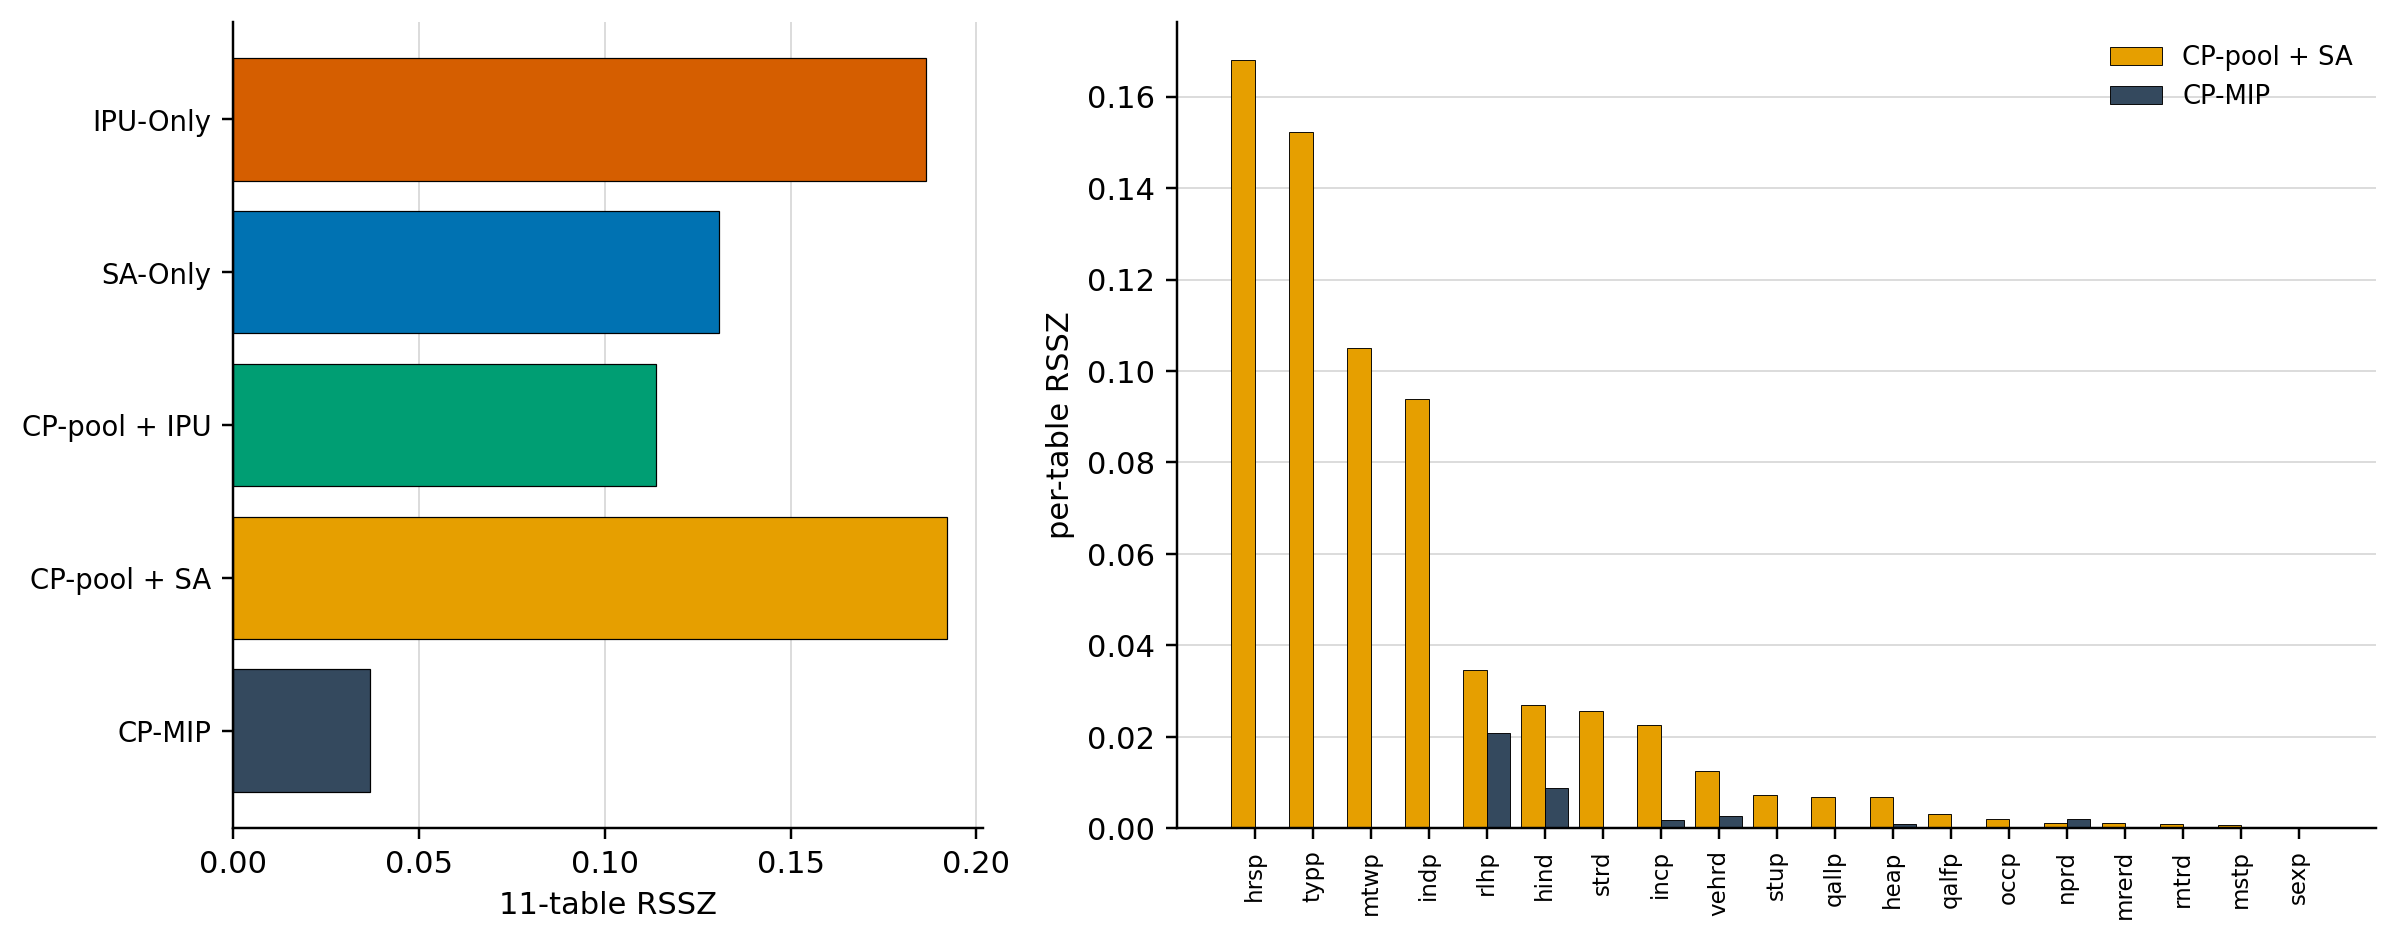
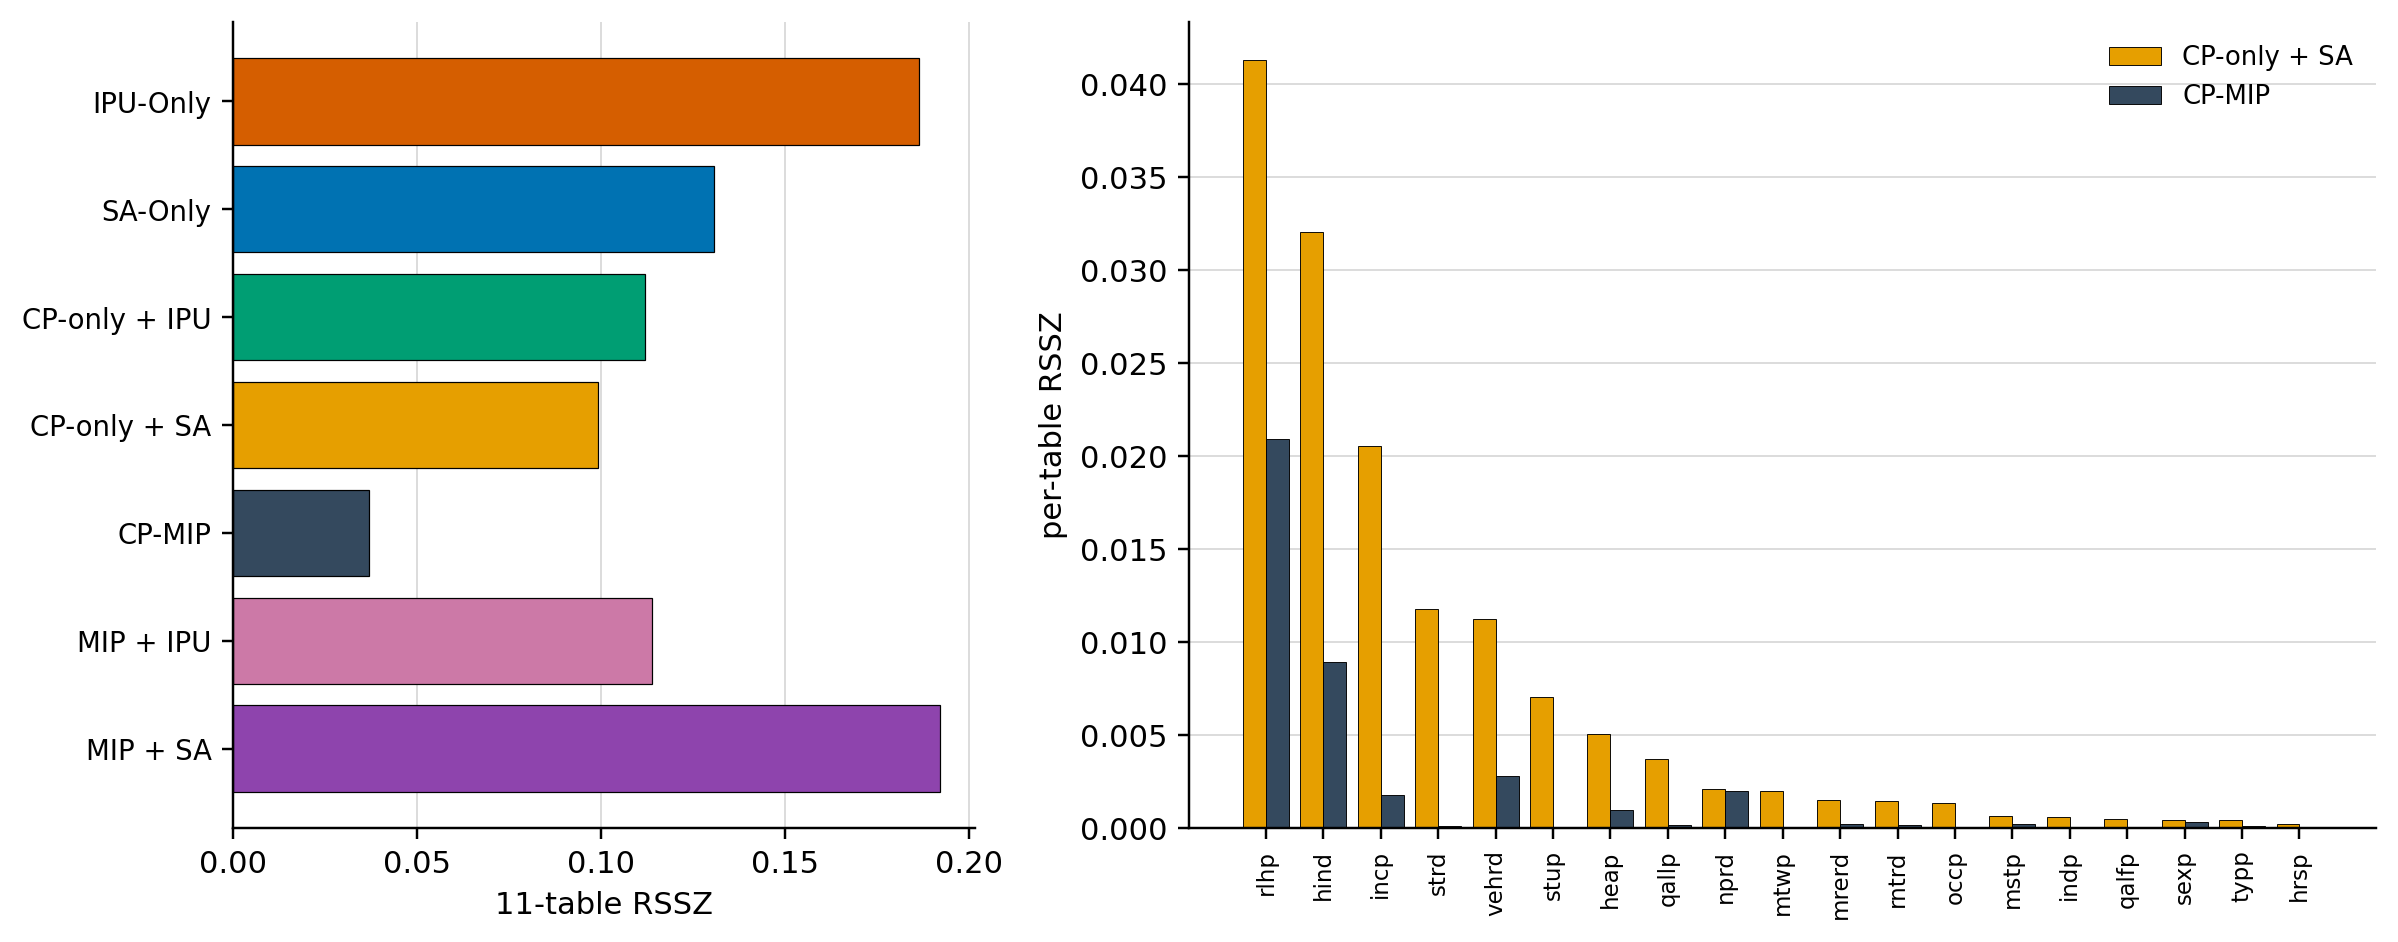
Correct the worked-example arms and make the held-out tails visible
Figure 6 labelled the MIP-expanded SA/IPU arms as CP-pool arms; it now shows CP-only+SA/IPU and MIP+SA/IPU separately, and panel (b) compares CP-only+SA with CP-MIP on the same pool. Figure 4 moves the shared legend below the panels and adds markers and line styles. Table 19 reports mean with median because zone 302031036, a non-private-dwelling SA2, dominates several means, including SA-Only's.

diff --git a/main_edit3.tex b/main_edit3.tex
@@ -614,10 +614,10 @@ pool-to-pool conclusions above are not an artefact of zone mix.
 \caption{Scaling with zone size on the fitted cohort, grouped into
 census-population quintiles from smallest (Q1) to largest (Q5).
 \textbf{(a)} Median 11-table RSSZ per quintile for SA-Only, IPU-Only,
-CP-only + SA, the composition-filtered pool + SA, and CP-MIP.
-\textbf{(b)} The share of zones in each quintile that beat SA-Only.
-The rank order is stable across the size range; the per-zone values behind the
-figure are released with the code.}
+CP-only + SA, the composition-filtered pool + SA (Comp. pool + SA), and CP-MIP.
+\textbf{(b)} The share of zones in each quintile that beat SA-Only; SA-Only is
+the baseline and is therefore not drawn. The rank order is stable across the
+size range; the per-zone values behind the figure are released with the code.}
 \label{fig:zone_size}
 \end{figure}
 
@@ -655,17 +655,16 @@ control tables are summarised in Figure~\ref{fig:marginals_all_tables}.}
 \centering
 \includegraphics[width=\textwidth]{fig_fit_example.png}
 \caption{Worked example on one mid-cohort SA2 zone (301011004), chosen as a
-typical zone rather than the tail. \textbf{(a)} The 11-table RSSZ of every arm
-on this zone, in pipeline order: the first two fit raw microdata directly, the
-CP-pool arms fit the constructed pool, and CP-MIP replaces the fitter with one
-integer program. \textbf{(b)} The same zone's per-table residuals under
-CP-pool + SA and CP-MIP on the 19-table fitting objective, sorted by the SA
-arm's value. The one-MIP fit concentrates its gains on the tables where the
-annealer's residual sits, at the cost of small residual increases on tables the
-SA arm had already zeroed; that trade-off is what the integer program's
-hierarchical objective buys. The zone is illustrative of the mechanism, not a
-cohort estimate; cohort values are in Tables~\ref{tab:pool_fitter_matrix} and
-\ref{tab:full_audit}.}
+typical zone rather than the tail. \textbf{(a)} The 11-table RSSZ of the seven
+core arms on this zone, grouped by pool: the first two fit raw microdata, the
+next three fit the CP feasible pool, and the last two fit the MIP-expanded
+pool. \textbf{(b)} The same zone's per-table residuals under CP-only + SA and
+CP-MIP on the 19-table fitting objective, sorted by the SA arm's value. On this
+zone the one-MIP fit lowers the residual on every table rather than trading one
+table against another; its cost is the within-zone duplication reported in
+Table~\ref{tab:full_audit}, not a marginal regression. The zone is illustrative
+of the mechanism, not a cohort estimate; cohort values are in
+Tables~\ref{tab:pool_fitter_matrix} and~\ref{tab:full_audit}.}
 \label{fig:fit_example}
 \end{figure}
 
@@ -1039,15 +1038,17 @@ attribute once per member and inflated the affected distances.}
 
 \input{files/heldout_rssz.tex}
 
-The one-MIP arm changes the held-out picture. Table~\ref{tab:heldout_rssz}
-reports its per-table RSSZ: it has the lowest median across tables, and
-excluding the single pool-gap zone 302031036 its mean falls sharply. It
-improves the person-level held-out tables substantially, while household
-composition and family composition are slightly worse. The \texttt{tenlld}
-column is dominated by the same zone; excluding it, the arm's \texttt{tenlld}
-mean is in line with the best arms. The one-MIP therefore improves person-level
-structure at a small cost on two household tables, and inherits the same
-pool-capacity tail as the in-sample fit.
+The one-MIP arm changes the held-out picture, but not uniformly.
+Table~\ref{tab:heldout_rssz} reports mean RSSZ with the median in parentheses.
+It has the lowest mean on \texttt{assnp}, \texttt{bedrd} and \texttt{lfsp},
+while \texttt{hcfmf} and \texttt{hhcd} are slightly worse than CP-only+SA. Its
+\texttt{tenlld} mean is dominated by zone 302031036; the median is in line with
+the best arms. The same zone dominates the SA-Only means on \texttt{assnp},
+\texttt{hhcd}, \texttt{lfsp}, \texttt{tenlld} and \texttt{age5p}, so the
+medians, not the means, are the robust comparison. The one-MIP arm therefore
+improves the person-level and bedroom held-out tables at a small cost on two
+household tables, and inherits the same pool-capacity tail as the in-sample
+fit.
 
 \begin{figure}[t]
 \centering

diff --git a/files/heldout_rssz.tex b/files/heldout_rssz.tex
@@ -1,10 +1,10 @@
 \begin{table}[h!]
 \centering
 \caption{Held-out RSSZ by table for the completed arms on the 367-zone fitted
-cohort. Entries are mean per-zone RSSZ on each held-out table; lower is better.
-Each cell uses the zones where that table is defined for both the arm and the
-census. The seven tables were excluded from the fitting basis. \texttt{lfsp} is
-scored on 258 zones for RSSZ; \texttt{hcfmf} needs
+cohort. Entries are mean per-zone RSSZ with the median in parentheses; lower is
+better. Each cell uses the zones where that table is defined for both the arm
+and the census. The seven tables were excluded from the fitting basis.
+\texttt{lfsp} is scored on 258 zones for RSSZ; \texttt{hcfmf} needs
 \texttt{families\_in\_household}, which the two raw arms do not carry.}
 \label{tab:heldout_rssz}
 \footnotesize
@@ -14,24 +14,27 @@ scored on 258 zones for RSSZ; \texttt{hcfmf} needs
 \toprule
 Held-out table & SA-Only & IPU-Only & CP-SA & CP-IPU & Comp-SA & Comp-IPU & CP-MIP \\
 \midrule
-age5p (age by 5-year group) & 0.012 & 0.016 & 0.008 & 0.009 & 0.007 & 0.010 & 0.007 \\
-assnp (need for assistance) & 0.186 & 0.257 & 0.194 & 0.221 & 0.262 & 0.273 & 0.050 \\
-bedrd (bedrooms)            & 0.174 & 0.042 & 0.057 & 0.037 & 0.059 & 0.037 & 0.032 \\
-hcfmf (family composition)  & n/a   & n/a   & 0.045 & 0.067 & 0.698 & 0.579 & 0.062 \\
-hhcd (household composition)& 0.095 & 0.023 & 0.018 & 0.018 & 0.019 & 0.022 & 0.020 \\
-lfsp (labour force status)  & 0.177 & 0.263 & 0.247 & 0.256 & 0.271 & 0.280 & 0.079 \\
-tenlld (landlord type)      & 1.097 & 0.198 & 0.203 & 0.222 & 0.125 & 0.100 & 0.959 \\
+age5p (age by 5-year group) & 0.012 (0.002) & 0.016 (0.003) & 0.008 (0.002) & 0.009 (0.003) & 0.007 (0.002) & 0.010 (0.004) & 0.007 (0.002) \\
+assnp (need for assistance) & 0.186 (0.002) & 0.257 (0.002) & 0.194 (0.001) & 0.221 (0.001) & 0.262 (0.013) & 0.273 (0.011) & 0.050 (0.001) \\
+bedrd (bedrooms)            & 0.174 (0.023) & 0.042 (0.018) & 0.057 (0.021) & 0.037 (0.017) & 0.059 (0.021) & 0.037 (0.018) & 0.032 (0.015) \\
+hcfmf (family composition)  & n/a & n/a & 0.045 (0.043) & 0.067 (0.064) & 0.698 (0.386) & 0.579 (0.311) & 0.062 (0.057) \\
+hhcd (household composition)& 0.095 (0.012) & 0.023 (0.014) & 0.018 (0.011) & 0.018 (0.013) & 0.019 (0.012) & 0.022 (0.017) & 0.020 (0.011) \\
+lfsp (labour force status)  & 0.177 (0.037) & 0.263 (0.042) & 0.247 (0.038) & 0.256 (0.041) & 0.271 (0.042) & 0.280 (0.044) & 0.079 (0.038) \\
+tenlld (landlord type)      & 1.097 (0.021) & 0.198 (0.015) & 0.203 (0.018) & 0.222 (0.013) & 0.125 (0.012) & 0.100 (0.011) & 0.959 (0.012) \\
 \bottomrule
 \end{tabular}%
 }
-\end{table}
 
+\par\smallskip
 {\footnotesize\textit{Note:} the RSSZ and TVD held-out tables differ by one
 \texttt{lfsp} zone (258 here, 259 in Table~\ref{tab:heldout}) because RSSZ
-requires a positive expected count in every cell. CP-MIP's \texttt{tenlld}
-mean is dominated by a single zone, 302031036, the known pool-capacity gap in
-Table~\ref{tab:pathological_zones}. Excluding it, the arm's mean across the
-seven tables falls sharply and its \texttt{tenlld} error is in line with the
-best arms. The arm's median across tables is lower than its mean for the same
-reason.
+requires a positive expected count in every cell. Several means are
+heavy-tailed. Zone 302031036 is a non-private-dwelling SA2 whose household
+controls carry at most 35 households, while every arm emits several hundred
+households there; it alone accounts for most of the SA-Only means on
+\texttt{assnp}, \texttt{hhcd}, \texttt{lfsp}, \texttt{tenlld} and
+\texttt{age5p}, and for a large part of the \texttt{tenlld} mean of every arm.
+The median in parentheses is the robust comparison; the mean is retained for
+comparability with the main tables.
 }
+\end{table}

diff --git a/make_zone_size_fig.py b/make_zone_size_fig.py
@@ -12,11 +12,11 @@ CSV = os.path.join(HERE, "outputs", "paper_arms", "zone_size_analysis.csv")
 OUT = os.path.join(HERE, "outputs", "paper_figures", "fig_zone_size.png")
 
 ARMS = [
-    ("sa_only", "SA-Only", "#0072B2"),
-    ("ipu_only", "IPU-Only", "#D55E00"),
-    ("base_sa", "CP-only + SA", "#E69F00"),
-    ("composition_sa", "Composition + SA", "#8E44AD"),
-    ("cp_mip", "CP-MIP", "#34495E"),
+    ("sa_only", "SA-Only", "#0072B2", "o", "-"),
+    ("ipu_only", "IPU-Only", "#D55E00", "s", "--"),
+    ("base_sa", "CP-only + SA", "#E69F00", "^", "-."),
+    ("composition_sa", "Comp. pool + SA", "#8E44AD", "D", ":"),
+    ("cp_mip", "CP-MIP", "#34495E", "*", "-"),
 ]
 BINS = ["Q1", "Q2", "Q3", "Q4", "Q5"]
 
@@ -24,44 +24,48 @@ BINS = ["Q1", "Q2", "Q3", "Q4", "Q5"]
 def main():
     d = pd.read_csv(CSV)
     d["size_bin"] = pd.Categorical(d["size_bin"], categories=BINS, ordered=True)
-    med = d.groupby("size_bin", observed=True)[[a for a, _, _ in ARMS]].median()
+    med = d.groupby("size_bin", observed=True)[[a for a, _, _, _, _ in ARMS]].median()
     wins = {}
-    for a, _, _ in ARMS:
+    for a, _, _, _, _ in ARMS:
         if a == "sa_only":
             continue
         wins[a] = (d[a] < d["sa_only"]).groupby(
             d["size_bin"], observed=True).mean()
 
-    fig, (ax1, ax2) = plt.subplots(1, 2, figsize=(10.5, 3.7),
+    fig, (ax1, ax2) = plt.subplots(1, 2, figsize=(10.5, 4.0),
                                    gridspec_kw={"width_ratios": [1.15, 1]})
     x = np.arange(len(BINS))
-    for a, label, colour in ARMS:
-        ax1.plot(x, med[a].reindex(BINS).to_numpy(), marker="o", linewidth=1.8,
-                 color=colour, label=label)
+    handles = []
+    for a, label, colour, marker, linestyle in ARMS:
+        line, = ax1.plot(x, med[a].reindex(BINS).to_numpy(), marker=marker,
+                         markersize=5.5, linewidth=1.8, linestyle=linestyle,
+                         color=colour, label=label)
+        handles.append(line)
     ax1.set_xticks(x)
     ax1.set_xticklabels(BINS)
     ax1.set_xlabel("census-population quintile (smallest to largest)")
     ax1.set_ylabel("median 11-table RSSZ")
-    ax1.legend(frameon=False, fontsize=7.5, ncol=2)
     for sp in ("top", "right"):
         ax1.spines[sp].set_visible(False)
 
-    for a, label, colour in ARMS:
+    for a, label, colour, marker, linestyle in ARMS:
         if a == "sa_only":
             continue
-        ax2.plot(x, wins[a].reindex(BINS).to_numpy() * 100, marker="o",
-                 linewidth=1.8, color=colour, label=label)
+        ax2.plot(x, wins[a].reindex(BINS).to_numpy() * 100, marker=marker,
+                 markersize=5.5, linewidth=1.8, linestyle=linestyle,
+                 color=colour, label=label)
     ax2.axhline(50, linestyle=":", color="#7f8c8d", linewidth=1)
     ax2.set_ylim(0, 105)
     ax2.set_xticks(x)
     ax2.set_xticklabels(BINS)
     ax2.set_xlabel("census-population quintile")
     ax2.set_ylabel("zones beating SA-Only (%)")
-    ax2.legend(frameon=False, fontsize=7.5, ncol=2)
     for sp in ("top", "right"):
         ax2.spines[sp].set_visible(False)
 
-    fig.tight_layout()
+    fig.legend(handles=handles, loc="lower center", ncol=5, frameon=False,
+               fontsize=8, bbox_to_anchor=(0.5, -0.01))
+    fig.tight_layout(rect=(0, 0.08, 1, 1))
     fig.savefig(OUT, dpi=220, bbox_inches="tight")
     print("wrote", OUT)
     print(med.round(3).to_string())

diff --git a/make_fit_example.py b/make_fit_example.py
@@ -2,7 +2,7 @@
 
 Zone 301011004. Panel A: 11-table RSSZ by arm for the same zone, showing what
 each stage contributes. Panel B: the same zone's per-table residuals under
-CP-pool + SA and CP-MIP, showing where the one-MIP fit removes the residual.
+CP-only + SA and CP-MIP, showing where the one-MIP fit removes the residual.
 
 No titles: the figure is described in the caption.
 """
@@ -23,12 +23,14 @@ ZONE = "301011004"
 ARMS = pd.read_csv(os.path.join(HERE, "outputs", "paper_arms",
                                 "paper_arms_zones.csv"))
 ARMS["zone"] = ARMS["zone"].astype(str)
-LADDER = [  # (arm key, label, colour) in pipeline order
+LADDER = [  # (arm key, label, colour), grouped by pool
     ("ipu_only", "IPU-Only", "#D55E00"),
     ("sa_only", "SA-Only", "#0072B2"),
-    ("cp_ipu", "CP-pool + IPU", "#009E73"),
-    ("cp_sa", "CP-pool + SA", "#E69F00"),
+    ("base_ipu", "CP-only + IPU", "#009E73"),
+    ("base_sa", "CP-only + SA", "#E69F00"),
     ("cp_mip", "CP-MIP", "#34495E"),
+    ("cp_ipu", "MIP + IPU", "#CC79A7"),
+    ("cp_sa", "MIP + SA", "#8E44AD"),
 ]
 
 
@@ -53,13 +55,14 @@ def main():
     # Panel A: per-arm RSSZ for this zone.
     zone_scores = ARMS[ARMS.zone == ZONE].set_index("arm")["rssz11"]
 
-    # Panel B: per-table residuals, CP-pool + SA and CP-MIP.
+    # Panel B: per-table residuals, CP-only + SA and CP-MIP. Both fit the
+    # same CP feasible pool, so the contrast isolates the fitter.
     sa_tables, sa_total = load_tables(os.path.join(
-        HERE, "outputs", "cp_pool_results", "expanded_v3_chunk_*",
+        HERE, "outputs", "cp_pool_results_base", "expanded_v3_chunk_*",
         "cp_pool_rssz_summary_chunk*.csv"))
     mip_tables, mip_total = load_tables(os.path.join(
         HERE, "outputs", "cp_mip_results", "cp_pool_rssz_summary_chunk*.csv"))
-    print(f"cp_sa 19-table {sa_total:.4f} / cp_mip 19-table {mip_total:.4f}")
+    print(f"cp_only_sa 19-table {sa_total:.4f} / cp_mip 19-table {mip_total:.4f}")
 
     fig, (axA, axB) = plt.subplots(
         1, 2, figsize=(11, 4.4), gridspec_kw={"width_ratios": [1, 1.6]})
@@ -82,7 +85,7 @@ def main():
     sa_vals = [sa_tables[t] for t in order]
     mip_vals = [mip_tables.get(t, 0.0) for t in order]
     axB.bar(x - 0.2, sa_vals, width=0.4, color="#E69F00", edgecolor="black",
-            linewidth=0.3, label="CP-pool + SA")
+            linewidth=0.3, label="CP-only + SA")
     axB.bar(x + 0.2, mip_vals, width=0.4, color="#34495E", edgecolor="black",
             linewidth=0.3, label="CP-MIP")
     axB.set_xticks(x)
